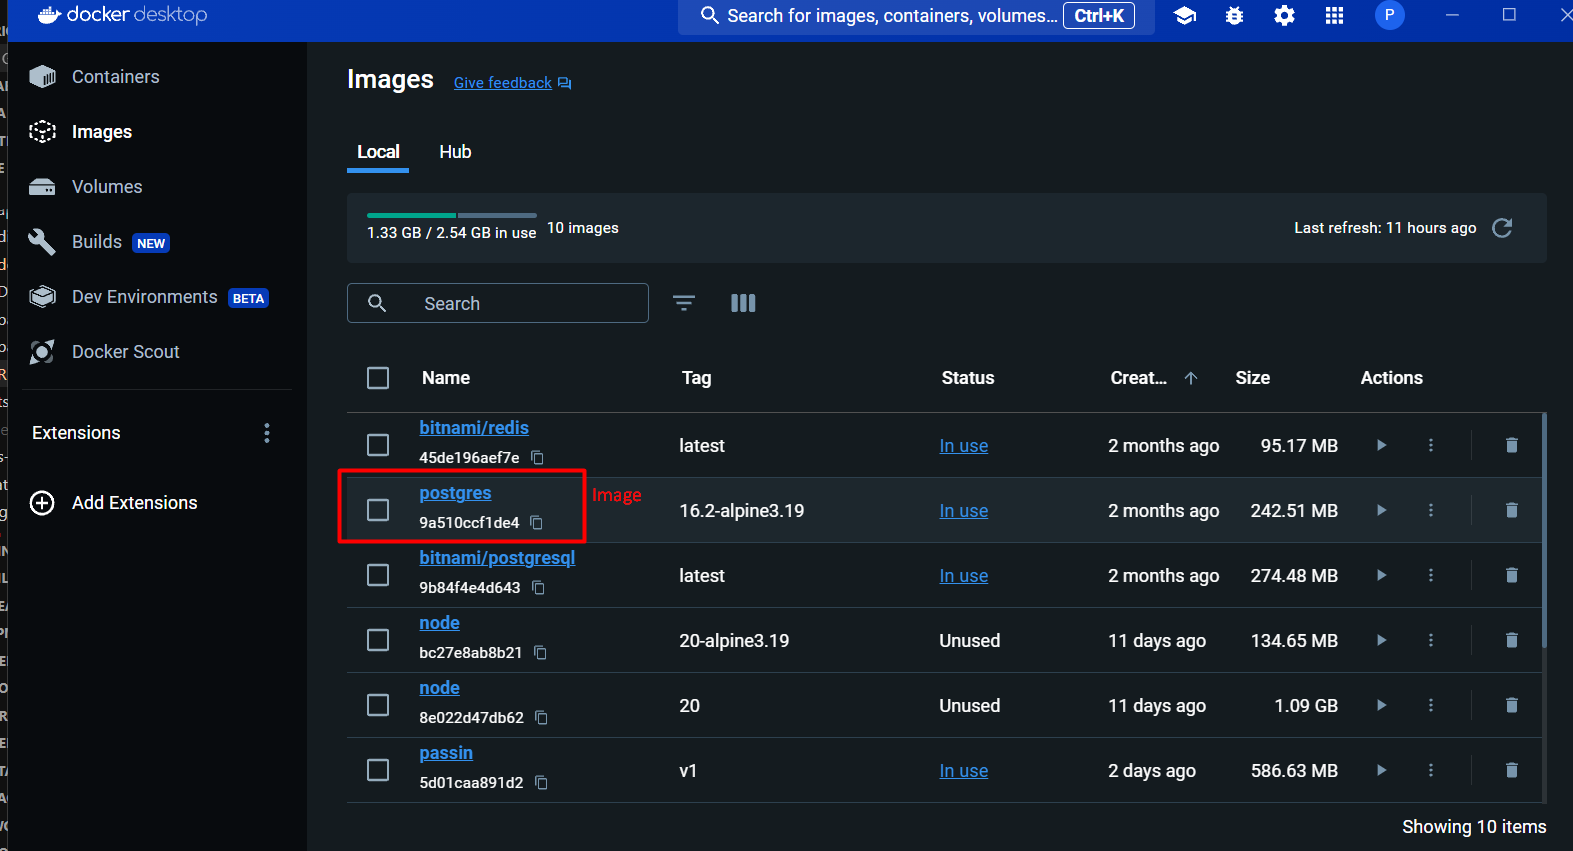
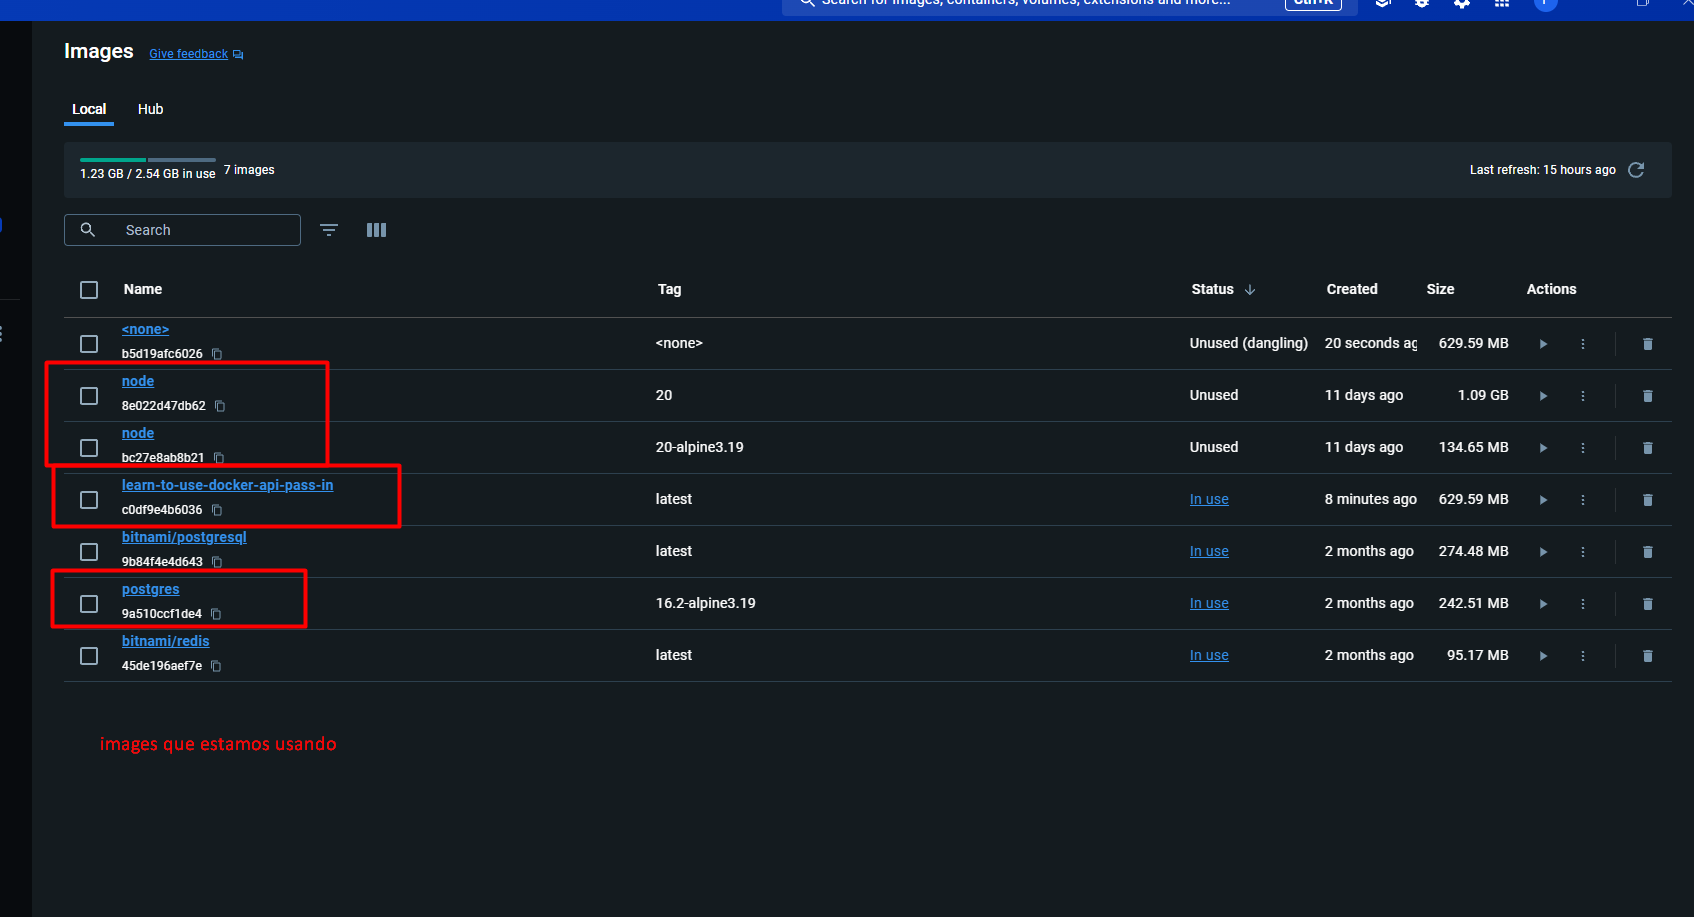
chore: add run application local and docker

diff --git a/src/server.ts b/src/server.ts
@@ -72,6 +72,6 @@ app
   })
   .then(() => {
     console.log(
-      `Server is running on ${basesConfig.nlwunite.baseUrl.api_base_url}`
+      `Server is running on ${basesConfig.nlwunite.baseUrl.api_base_url}/docs`
     )
   })

diff --git a/README.md b/README.md
@@ -425,7 +425,7 @@ depois rode o comando para popular o banco:
           ```
   - Agora iremos preparar a aplicação para receber o postgres, removendo o arquivo dev.db que era usado pelo SQlite, depois indo no prisma configuramos para receber o postgres, depois removemos o migration_lock em migrations, depois em cada migration mudamos o *autoincrement*, porque no postgres não possui *autoincrement*, usamos o *serial* que é o equivalente ao *autoincrement* do SQlite, e o integer tambem não é necessario visto que um campo *serial* ja é um campo *integer* no postgres. Mudamos também o tipo *DATETIME* para *TIMESTAMP* 
   - Agora declaramos outro serviço dentro do docker-compose o postgres
-  - Para rodar o docker-compose com o postgres basta rodar o ```docker-compose up --build -d``` ele vai fazer baixar, fazer o pull da imagem do postgres(postgres:16.2-alpine3.19) de acordo com a tag que foi definida e o build da nossa imagem(api-api-pass-in) e subir os dois containers(api-pass-in e db-pass-in) em um pacote de container(api(nome da nossa aplicação))
+  - Para rodar o docker-compose com o postgres basta rodar o ```docker-compose up --build -d``` ele vai fazer baixar, fazer o pull da imagem do postgres(postgres:16.2-alpine3.19) de acordo com a tag que foi definida e o build da nossa imagem(api-api-pass-in) e subir os dois containers(api-pass-in e db-pass-in) em um pacote de container(learn-to-use-docker(nome da nossa aplicação))
     ```bash
         [+] Running 10/10
         ✔ postgres 9 layers [⣿⣿⣿⣿⣿⣿⣿⣿⣿]      0B/0B      Pulled                                                                                                      10.9s 
@@ -479,8 +479,28 @@ depois rode o comando para popular o banco:
   - Rodamos sempre com build para caso tenha alguma alteração no dockerfile ou no docker-compose quando alterar algo da nossa imagem, ele ja builda a nossa imagem(Dockerfile) e sobe os containers(serviços) com as alterações(api-pass-in e db-pass-in)
   - Para parar algum container especifico basta rodar o ```docker stop CONTAINER ID```
   - Para remover todos os containers basta rodar o ```docker-compose down```
-  - Para remover algum container(ex: db-pass-in) especifico do nosso pacote de container(ex: api) basta rodar o ```docker rm CONTAINER ID``` lembrando que a imagem ainda vai estar la(ex:postgres:16.2-alpine3.19) no docker, ou seja, no sistema, para remover a imagem basta rodar o ```docker rmi IMAGE ID``` para ver os id das imagens basta rodar o ```docker image ls```
+  - Para remover algum container(ex: db-pass-in) especifico do nosso pacote de container(ex: learn-to-use-docker) basta rodar o ```docker rm CONTAINER ID``` lembrando que a imagem ainda vai estar la(ex:postgres:16.2-alpine3.19) no docker, ou seja, no sistema, para remover a imagem basta rodar o ```docker rmi IMAGE ID``` para ver os id das imagens basta rodar o ```docker image ls```
   - para subir somente o container que foi interrompido  basta rodar o ```docker-compose up -d NOME_DO_SERVIÇO``` --> ```docker-compose up -d postgres``` ou ```docker-compose up``` Sobe tudo que estiver  no docker-compose.yml
   - Caso seja necessario fazer migrations no banco de dados da nossa api ao subir os containers, basta ir no comando start no *package.json* e adicionar o comando de migration no start ```npm run db:migrate-deploy && node dist/server.mjs``` e no Dockerfile deixar no CMD npm start. Não tem problema de deixar o comando da migration no start, porque se paramos algum container que não seja da api(api-pass-in) ao dar o ```docker-compose up -d``` ele vai subir somente o container que foi interrompido, mas caso interrompa o container da api e execute o npm run start ao subir o container da api e rodar as migration não sera um problema, porque o volumes do postgres não são apagados, logo as migrations não serão executadas novamente
   - Então lembre de criar o volumes para o container do banco de dados, para que os dados não se percam quando o container do postgres for removido e quando o container da api desligar, subir e rodar a migrations novamente ao subir o container da api, para isso basta ir no docker-compose.yml e adicionar o volumes no container do Banco de dados.
   - Depois de um ```docker-compose up --build -d``` para subir a aplicação e pegar o novo *package.json* com o comando start alterado.
+
+
+  - Iniciar:
+    - ```npm i```
+    - ```npx prisma generate```
+
+  - Como iniciar a aplicação via Dev e bd docker localmente:
+    - Sobe a nossa api normalmente ```npm run dev```
+    - Sobe o serviço do Bd via docker ```docker-compose up -d postgres```
+    - para testar na web: localhost:3000/docs
+  
+  - Caso de erro nas migrations, basta dar um ```npm run db:migrate```
+  
+  - Como iniciar a aplicação toda via Docker localmente:
+    - Builda a nossa imagem e ja sobe todos os serviços(containers)```docker-compose up --build -d```
+    - Caso ja tenha buildado a nossa imagem(Dockerfile) da api: ```docker-compose up -d```
+    - para testar na web: localhost:3001/docs
+  
+  - Caso de error de migration no docker basta colocar no script de start do package.json o comando de migration ```npm run db:migrate-deploy && node dist/server.mjs``` e no Dockerfile deixar o CMD npm start, para que ao subir o container da api ele execute as migrations e depois inicie a aplicação
+   - E depois buildar a imagem da api novamente e ja subir os serviços(containers): ```docker-compose up --build -d```
